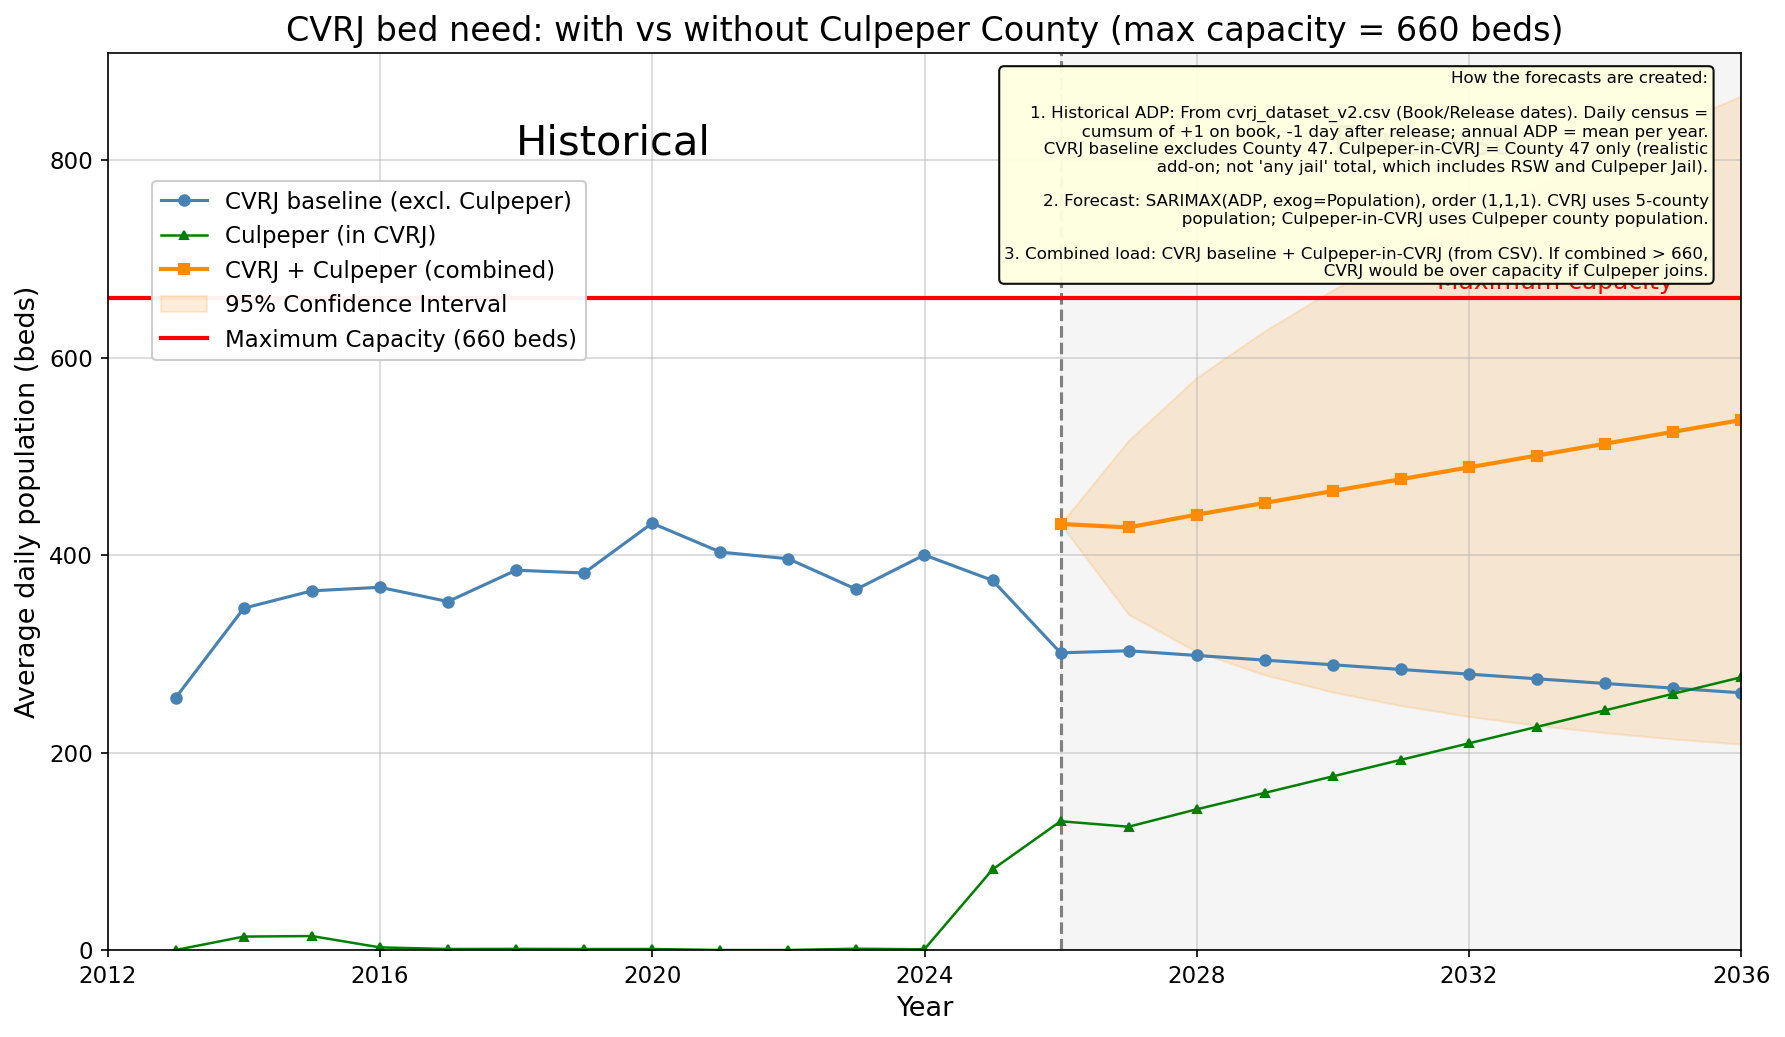
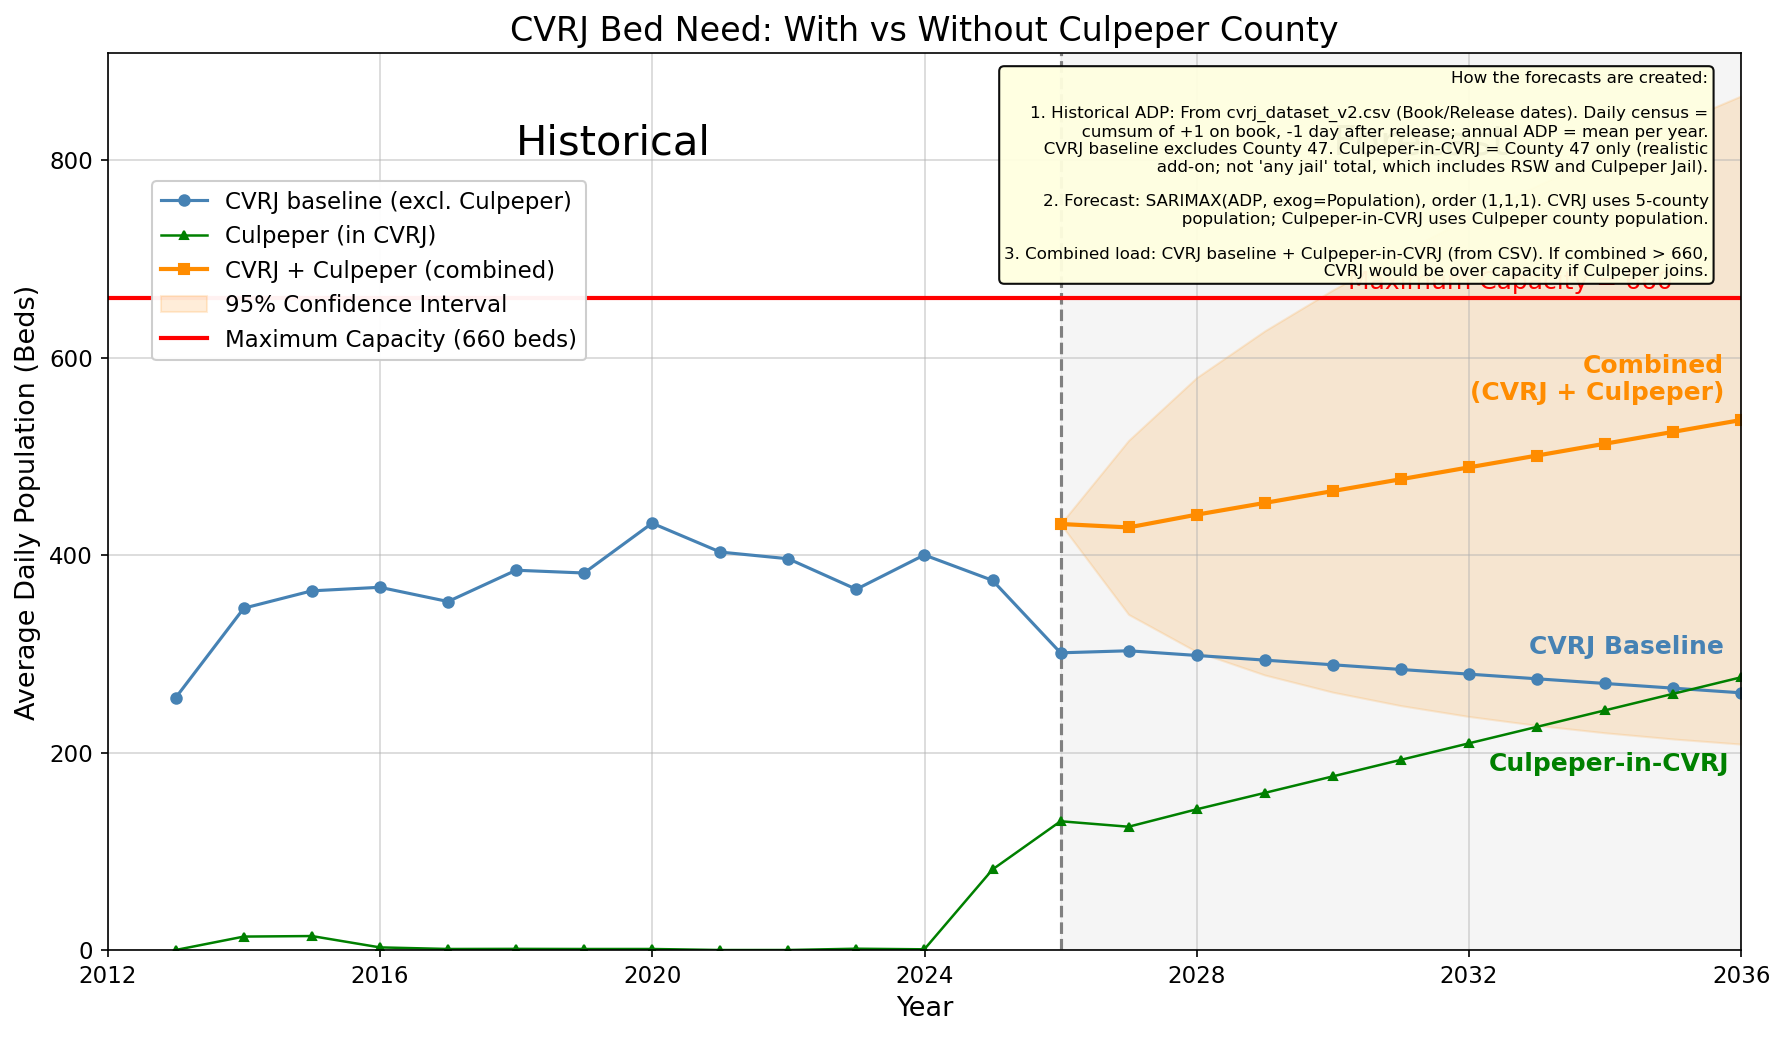
direct labels

diff --git a/scripts/07_capacity_forecast_visualization.py b/scripts/07_capacity_forecast_visualization.py
@@ -121,7 +121,7 @@ def plot_capacity(ax, annual_cvrj_adp, years_future, cvrj_forecast_vals, combine
 
     # Label the red line directly
     ax.text(pd.Timestamp('2035-01-01'), MAX_CAPACITY + 5,
-            'Maximum capacity',
+            'Maximum Capacity = 660',
             color='red',
             fontsize=FONT_ANNO,
             ha='right',
@@ -159,7 +159,33 @@ def plot_capacity(ax, annual_cvrj_adp, years_future, cvrj_forecast_vals, combine
                     #arrowprops=dict(arrowstyle='<-', color='gray', lw=1.5))
 
     ax.set_xlabel('Year', fontsize=FONT_LABEL)
-    ax.set_ylabel('Average daily population (beds)', fontsize=FONT_LABEL)
+    ax.set_ylabel('Average Daily Population (Beds)', fontsize=FONT_LABEL)
+    
+    # Direct labels ON the lines at the end of the forecast area (2035)
+    last_year_forecast = years_future[-1]
+    
+    # 1. Orange Combined Line (Above)
+    last_val_combo = vals_combo_plot[-1]
+    ax.text(last_year_forecast - pd.DateOffset(months=3), last_val_combo + 15, 
+            'Combined\n(CVRJ + Culpeper)', 
+            color='darkorange', fontsize=FONT_ANNO, fontweight='bold', 
+            ha='right', va='bottom')
+            
+    # 2. Blue CVRJ Baseline (Above)
+    last_val_cvrj = cvrj_forecast_vals[-1]
+    ax.text(last_year_forecast - pd.DateOffset(months=3), last_val_cvrj + 35, 
+            'CVRJ Baseline', 
+            color='steelblue', fontsize=FONT_ANNO, fontweight='bold', 
+            ha='right', va='bottom')
+            
+    # 3. Green Culpeper-in-CVRJ (Below)
+    if culpeper_forecast_vals is not None:
+        last_val_culp = culpeper_forecast_vals[-1]
+        ax.text(last_year_forecast - pd.DateOffset(months=2), last_val_culp - 75, 
+                'Culpeper-in-CVRJ', 
+                color='green', fontsize=FONT_ANNO, fontweight='bold', 
+                ha='right', va='top')
+                
     ax.tick_params(axis='both', labelsize=FONT_LEGEND)
     ax.set_ylim(0, None)
     ax.set_xlim(pd.Timestamp('2012-01-01'), pd.Timestamp('2036-01-01'))
@@ -187,7 +213,7 @@ def main():
     fig, ax = plt.subplots(figsize=(12, 6))
     plot_capacity(ax, annual_cvrj_adp, years_future, cvrj_forecast_vals, combined_forecast,
                   annual_culpeper_in_cvrj, culpeper_forecast_vals, combined_se=combined_se, draw_forecast_marker=True)
-    ax.set_title('CVRJ bed need: with vs without Culpeper County (max capacity = 660 beds)', fontsize=FONT_TITLE)
+    ax.set_title('CVRJ Bed Need: With vs Without Culpeper County', fontsize=FONT_TITLE)
     plt.tight_layout()
     out1 = os.path.join(_ROOT, 'visuals', 'capacity_forecast_with_and_without_culpeper.png')
     plt.savefig(out1, dpi=150, bbox_inches='tight')
@@ -198,7 +224,7 @@ def main():
     fig2, ax2 = plt.subplots(figsize=(12, 7))
     plot_capacity(ax2, annual_cvrj_adp, years_future, cvrj_forecast_vals, combined_forecast,
                   annual_culpeper_in_cvrj, culpeper_forecast_vals, combined_se=combined_se, draw_forecast_marker=True)
-    ax2.set_title('CVRJ bed need: with vs without Culpeper County (max capacity = 660 beds)', fontsize=FONT_TITLE)
+    ax2.set_title('CVRJ Bed Need: With vs Without Culpeper County', fontsize=FONT_TITLE)
 
     methodology = (
         "How the forecasts are created:\n\n"
